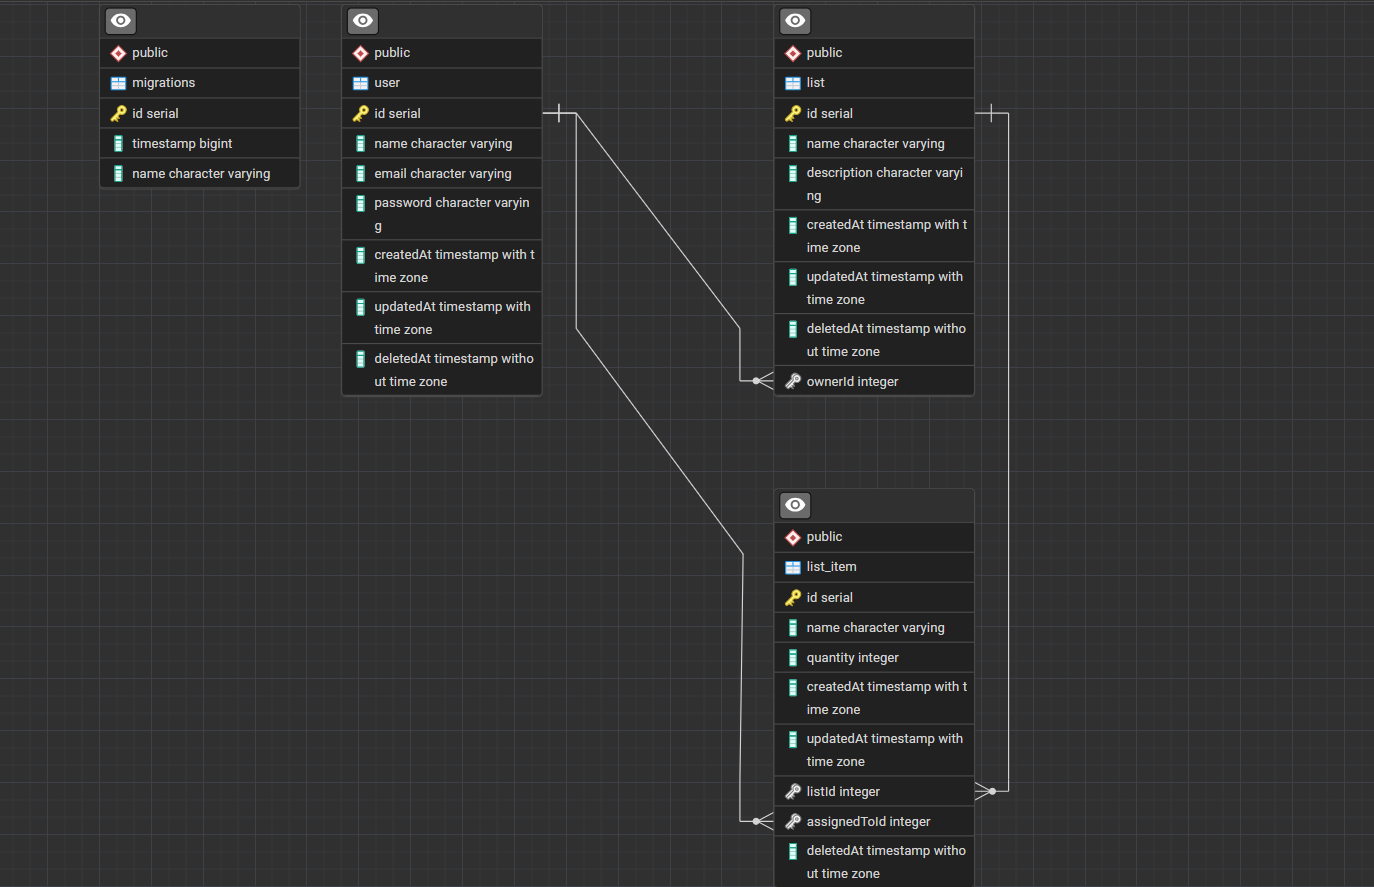
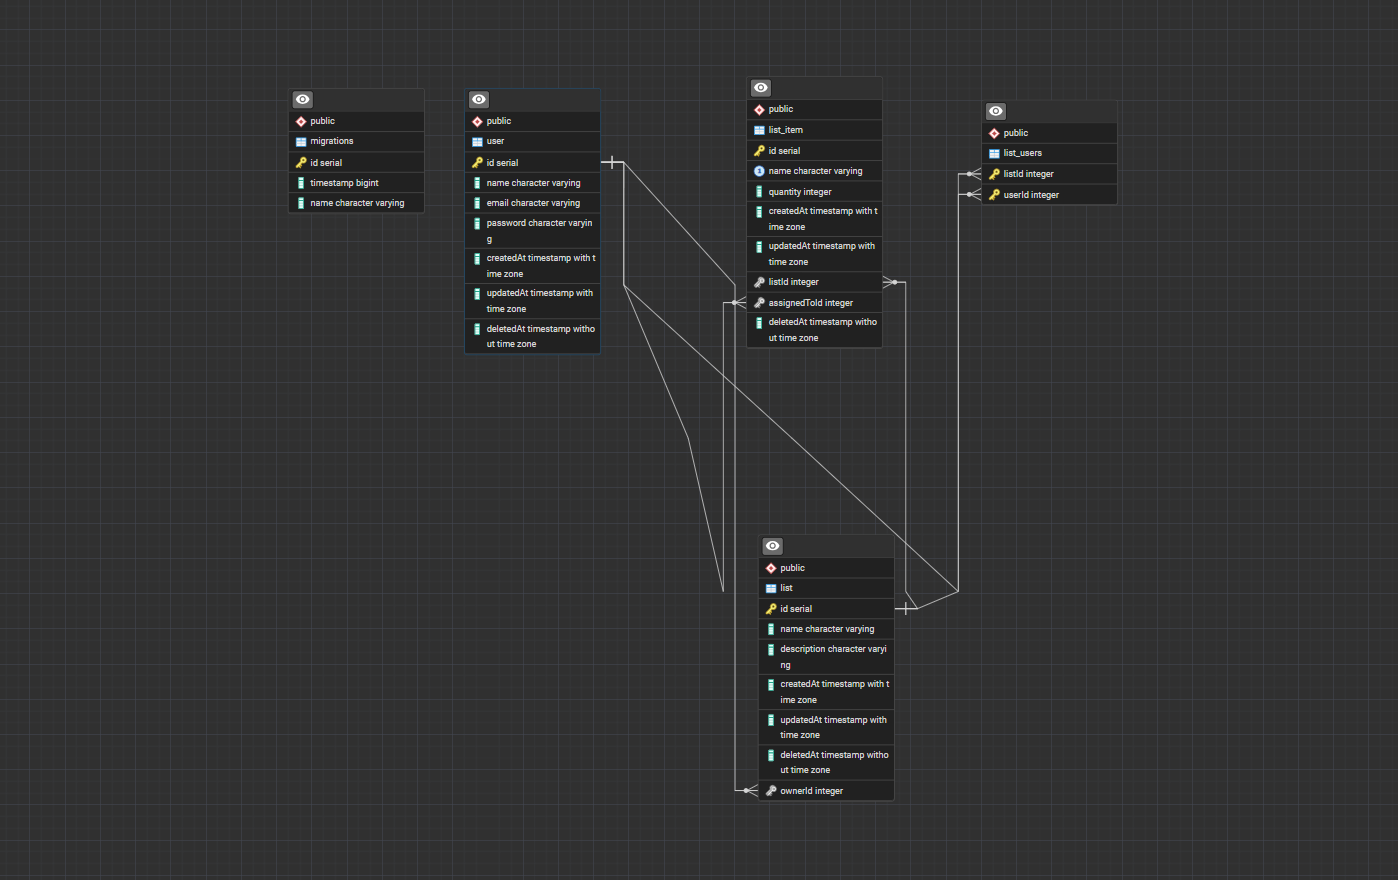
fix: support shared lists via many-to-many user relation

diff --git a/src/modules/lists/list.service.ts b/src/modules/lists/list.service.ts
@@ -1,4 +1,5 @@
 import {
+  ConflictException,
   ForbiddenException,
   Injectable,
   NotFoundException,
@@ -9,27 +10,36 @@ import { Repository } from 'typeorm';
 import { User } from '../users/entities/user.entity';
 import { UpdateListDto } from './dto/update-list.dto';
 import { CreateListDto } from './dto/create-list.dto';
+import { AddListMemberDto } from './dto/add-list-member.dto';
 
 @Injectable()
 export class ListService {
   constructor(
     @InjectRepository(List)
     private readonly listRepository: Repository<List>,
+    @InjectRepository(User)
+    private readonly userRepository: Repository<User>,
   ) {}
 
   async create(dto: CreateListDto, user: User) {
     const list = this.listRepository.create({
       ...dto,
       owner: user,
+      users: [user],
     });
     return this.listRepository.save(list);
   }
 
   async findAll(user: User) {
-    return this.listRepository.find({
-      where: { owner: { id: user.id } },
-      relations: ['owner'],
-    });
+    const userId = user.id;
+
+    return this.listRepository
+      .createQueryBuilder('list')
+      .leftJoinAndSelect('list.owner', 'owner')
+      .leftJoinAndSelect('list.users', 'users')
+      .where('owner.id = :userId', { userId })
+      .orWhere('users.id = :userId', { userId })
+      .getMany();
   }
 
   async update(id: number, dto: UpdateListDto, user: User) {
@@ -65,5 +75,33 @@ export class ListService {
     }
 
     await this.listRepository.remove(list);
+  }
+
+  async addMember(listId: number, dto: AddListMemberDto, user: User) {
+    const list = await this.listRepository.findOne({
+      where: { id: listId },
+      relations: ['owner', 'users'],
+    });
+
+    if (!list) {
+      throw new NotFoundException('Not found list');
+    }
+
+    if (list.owner.id !== user.id) {
+      throw new ForbiddenException('Only the owner can add members');
+    }
+
+    const alreadyMember = list.users.some((member) => member.id === dto.userId);
+    if (alreadyMember) {
+      throw new ConflictException('The user is already a member of the list');
+    }
+
+    const newMember = await this.userRepository.findOne({ where: { id: dto.userId } });
+    if (!newMember) {
+      throw new NotFoundException('User not found');
+    }
+
+    list.users.push(newMember);
+    return this.listRepository.save(list);
   }
 }

diff --git a/src/database/migrations/1762821816278-AddListUserJoinTable.ts b/src/database/migrations/1762821816278-AddListUserJoinTable.ts
@@ -1,0 +1,26 @@
+import { MigrationInterface, QueryRunner } from "typeorm";
+
+export class AddListUserJoinTable1762821816278 implements MigrationInterface {
+    name = 'AddListUserJoinTable1762821816278'
+
+    public async up(queryRunner: QueryRunner): Promise<void> {
+        await queryRunner.query(`ALTER TABLE "list_item" DROP CONSTRAINT "UQ_list_item_name_list"`);
+        await queryRunner.query(`CREATE TABLE "list_users" ("listId" integer NOT NULL, "userId" integer NOT NULL, CONSTRAINT "PK_52253155c9e947abed5414ca08d" PRIMARY KEY ("listId", "userId"))`);
+        await queryRunner.query(`CREATE INDEX "IDX_72f61085df56a065aa68bbdccd" ON "list_users" ("listId") `);
+        await queryRunner.query(`CREATE INDEX "IDX_f33318c2067b145cec32939f64" ON "list_users" ("userId") `);
+        await queryRunner.query(`ALTER TABLE "list_item" ADD CONSTRAINT "UQ_824d4095e8d9404b7803761a216" UNIQUE ("name", "listId")`);
+        await queryRunner.query(`ALTER TABLE "list_users" ADD CONSTRAINT "FK_72f61085df56a065aa68bbdccd3" FOREIGN KEY ("listId") REFERENCES "list"("id") ON DELETE CASCADE ON UPDATE CASCADE`);
+        await queryRunner.query(`ALTER TABLE "list_users" ADD CONSTRAINT "FK_f33318c2067b145cec32939f649" FOREIGN KEY ("userId") REFERENCES "user"("id") ON DELETE NO ACTION ON UPDATE NO ACTION`);
+    }
+
+    public async down(queryRunner: QueryRunner): Promise<void> {
+        await queryRunner.query(`ALTER TABLE "list_users" DROP CONSTRAINT "FK_f33318c2067b145cec32939f649"`);
+        await queryRunner.query(`ALTER TABLE "list_users" DROP CONSTRAINT "FK_72f61085df56a065aa68bbdccd3"`);
+        await queryRunner.query(`ALTER TABLE "list_item" DROP CONSTRAINT "UQ_824d4095e8d9404b7803761a216"`);
+        await queryRunner.query(`DROP INDEX "public"."IDX_f33318c2067b145cec32939f64"`);
+        await queryRunner.query(`DROP INDEX "public"."IDX_72f61085df56a065aa68bbdccd"`);
+        await queryRunner.query(`DROP TABLE "list_users"`);
+        await queryRunner.query(`ALTER TABLE "list_item" ADD CONSTRAINT "UQ_list_item_name_list" UNIQUE ("name", "listId")`);
+    }
+
+}

diff --git a/src/modules/list-items/list-items.service.ts b/src/modules/list-items/list-items.service.ts
@@ -52,11 +52,11 @@ export class ListItemsService {
     });
 
     if (!item) {
-      throw new NotFoundException('Item não encontrado');
+      throw new NotFoundException('Item not found');
     }
 
     if (item.assignedTo) {
-      throw new ConflictException('Item já atribuído a outro usuário');
+      throw new ConflictException('Item already assigned to another user');
     }
 
     const assignee = await this.userRepository.findOne({
@@ -64,7 +64,7 @@ export class ListItemsService {
     });
 
     if (!assignee) {
-      throw new NotFoundException('Usuário não encontrado');
+      throw new NotFoundException('User not found');
     }
 
     item.assignedTo = assignee;
@@ -74,18 +74,19 @@ export class ListItemsService {
   private async getListOrFail(listId: number, user: User) {
     const list = await this.listRepository.findOne({
       where: { id: listId },
-      relations: ['owner'],
+      relations: ['owner', 'users'],
     });
 
     if (!list) {
-      throw new NotFoundException('Lista não encontrada');
+      throw new NotFoundException('List not found');
     }
 
-    const ownerId = Number(list.owner?.id);
     const requesterId = Number(user?.id);
+    const isOwner = Number(list.owner?.id) === requesterId;
+    const isMember = list.users?.some((member) => Number(member.id) === requesterId);
 
-    if (!ownerId || ownerId !== requesterId) {
-      throw new ForbiddenException('Acesso negado');
+    if (!isOwner && !isMember) {
+      throw new ForbiddenException('Access denied');
     }
 
     return list;

diff --git a/src/modules/users/user.service.ts b/src/modules/users/user.service.ts
@@ -24,7 +24,7 @@ export class UserService {
     });
 
     if (existingUser) {
-      throw new ConflictException('E-mail já cadastrado');
+      throw new ConflictException('Email already registered');
     }
 
     const configuredSalt = Number(process.env.HASH_SALT ?? 10);
@@ -54,7 +54,7 @@ export class UserService {
 
   async update(id: number, dto: UpdateUserDto, user: User) {
     if (user.id !== id) {
-      throw new ForbiddenException('Você não pode atualizar outro usuário');
+      throw new ForbiddenException('You cannot update another user');
     }
 
     const target = await this.getUserEntityOrFail(id);
@@ -78,20 +78,20 @@ export class UserService {
 
   async remove(id: number, user: User) {
     if (user.id !== id) {
-      throw new ForbiddenException('Você não pode remover outro usuário');
+      throw new ForbiddenException('You cannot remove another user');
     }
 
     const target = await this.getUserEntityOrFail(id);
     await this.userRepository.softRemove(target);
 
-    return { message: 'Usuário removido com sucesso' };
+    return { message: 'User removed successfully' };
   }
 
   private async getUserEntityOrFail(id: number): Promise<User> {
     const user = await this.userRepository.findOne({ where: { id } });
 
     if (!user) {
-      throw new NotFoundException('Usuário não encontrado');
+      throw new NotFoundException('User not found');
     }
 
     return user;

diff --git a/src/modules/lists/list.controller.ts b/src/modules/lists/list.controller.ts
@@ -9,6 +9,7 @@ import {
 } from '@nestjs/common';
 import { UpdateListDto } from './dto/update-list.dto';
 import { CreateListDto } from './dto/create-list.dto';
+import { AddListMemberDto } from './dto/add-list-member.dto';
 import { ApiTags } from '@nestjs/swagger';
 import { GetUser } from 'src/decorators/get-user.decorator';
 import { User } from '../users/entities/user.entity';
@@ -41,5 +42,14 @@ export class ListController {
   @Delete(':id')
   async remove(@Param('id') id: number, @GetUser() user: User) {
     return this.listService.remove(id, user);
+  }
+
+  @Post(':id/members')
+  async addMember(
+    @Param('id') id: number,
+    @Body() dto: AddListMemberDto,
+    @GetUser() user: User,
+  ) {
+    return this.listService.addMember(id, dto, user);
   }
 }

diff --git a/src/modules/lists/entities/list.entity.ts b/src/modules/lists/entities/list.entity.ts
@@ -4,6 +4,8 @@ import {
   CreateDateColumn,
   DeleteDateColumn,
   Entity,
+  JoinTable,
+  ManyToMany,
   ManyToOne,
   OneToMany,
   PrimaryGeneratedColumn,
@@ -22,8 +24,12 @@ export class List {
   @Column({ nullable: true })
   description?: string;
 
-  @ManyToOne(() => User, (user) => user.lists, { onDelete: 'CASCADE' })
+  @ManyToOne(() => User, (user) => user.ownedLists, { onDelete: 'CASCADE' })
   owner: User;
+
+  @ManyToMany(() => User, (user) => user.lists)
+  @JoinTable({name: 'list_users'})
+  users: User[];
 
   @OneToMany(() => ListItem, (item) => item.list)
   items: ListItem[];

diff --git a/src/modules/lists/list.module.ts b/src/modules/lists/list.module.ts
@@ -1,11 +1,12 @@
 import { Module } from '@nestjs/common';
 import { TypeOrmModule } from '@nestjs/typeorm';
 import { List } from './entities/list.entity';
+import { User } from '../users/entities/user.entity';
 import { ListController } from './list.controller';
 import { ListService } from './list.service';
 
 @Module({
-  imports: [TypeOrmModule.forFeature([List])],
+  imports: [TypeOrmModule.forFeature([List, User])],
   providers: [ListService],
   controllers: [ListController],
   exports: [],

diff --git a/src/modules/users/entities/user.entity.ts b/src/modules/users/entities/user.entity.ts
@@ -3,6 +3,7 @@ import {
   CreateDateColumn,
   DeleteDateColumn,
   Entity,
+  ManyToMany,
   OneToMany,
   PrimaryGeneratedColumn,
   UpdateDateColumn,
@@ -27,6 +28,9 @@ export class User {
   password?: string;
 
   @OneToMany(() => List, (list) => list.owner)
+  ownedLists: List[];
+
+  @ManyToMany(() => List, (list) => list.users)
   lists: List[];
 
   @OneToMany(() => ListItem, (item) => item.assignedTo)

diff --git a/src/modules/lists/dto/add-list-member.dto.ts b/src/modules/lists/dto/add-list-member.dto.ts
@@ -1,0 +1,8 @@
+import { ApiProperty } from '@nestjs/swagger';
+import { IsInt} from 'class-validator';
+
+export class AddListMemberDto {
+  @ApiProperty()
+  @IsInt()
+  userId: number;
+}

diff --git a/docs/database.md b/docs/database.md
@@ -24,9 +24,17 @@ A aplicação utiliza PostgreSQL com migrations gerenciadas pelo TypeORM. A segu
 | name        | character varying          | Nome da lista                                          |
 | description | character varying          | Descrição opcional                                     |
 | ownerId     | integer (FK -> user.id)    | Proprietário; remoção em cascata                       |
+| users       | many-to-many               | Relacionamento via tabela `list_users`                 |
 | createdAt   | timestamp with time zone   | Valor padrão `now()`                                   |
 | updatedAt   | timestamp with time zone   | Valor padrão `now()`                                   |
 | deletedAt   | timestamp                  | Soft delete (opcional)                                 |
+
+### list_users (tabela de associação)
+
+| Coluna  | Tipo                    | Notas                                          |
+|---------|-------------------------|------------------------------------------------|
+| listId  | integer (FK -> list.id) | Participante da lista; chave primária composta |
+| userId  | integer (FK -> user.id) | Usuário associado; chave primária composta     |
 
 ### list_item
 
@@ -48,6 +56,7 @@ A aplicação utiliza PostgreSQL com migrations gerenciadas pelo TypeORM. A segu
 | `1759077432893-ListAndUserTables.ts`         | Cria tabelas `user` e `list` com relacionamento `ownerId`.                |
 | `1759077530000-ListItemTable.ts`             | Cria `list_item` com referências para `list` e `user`.                    |
 | `1762134779045-UpdateListItemTable.ts`       | Atualiza `list_item`, removendo `assignedAt`, adicionando `deletedAt` e ajustando FKs. |
+| `1762821816278-AddListUserJoinTable.ts`      | Cria tabela de junção `list_users` para compartilhar listas entre usuários. |
 
 ## Executando migrations
 
@@ -58,7 +67,7 @@ npm run migration:run
 Para criar uma nova migration:
 
 ```
-npm run migration:generate -- src/database/migrations/NomeDaMigration -- (sempre coloque um nome diferente para cada migration)
+npm run migration:generate src/database/migrations/NomeDaMigration -- (sempre coloque um nome diferente para cada migration)
 ```
 Para revertar uma migration:
 
